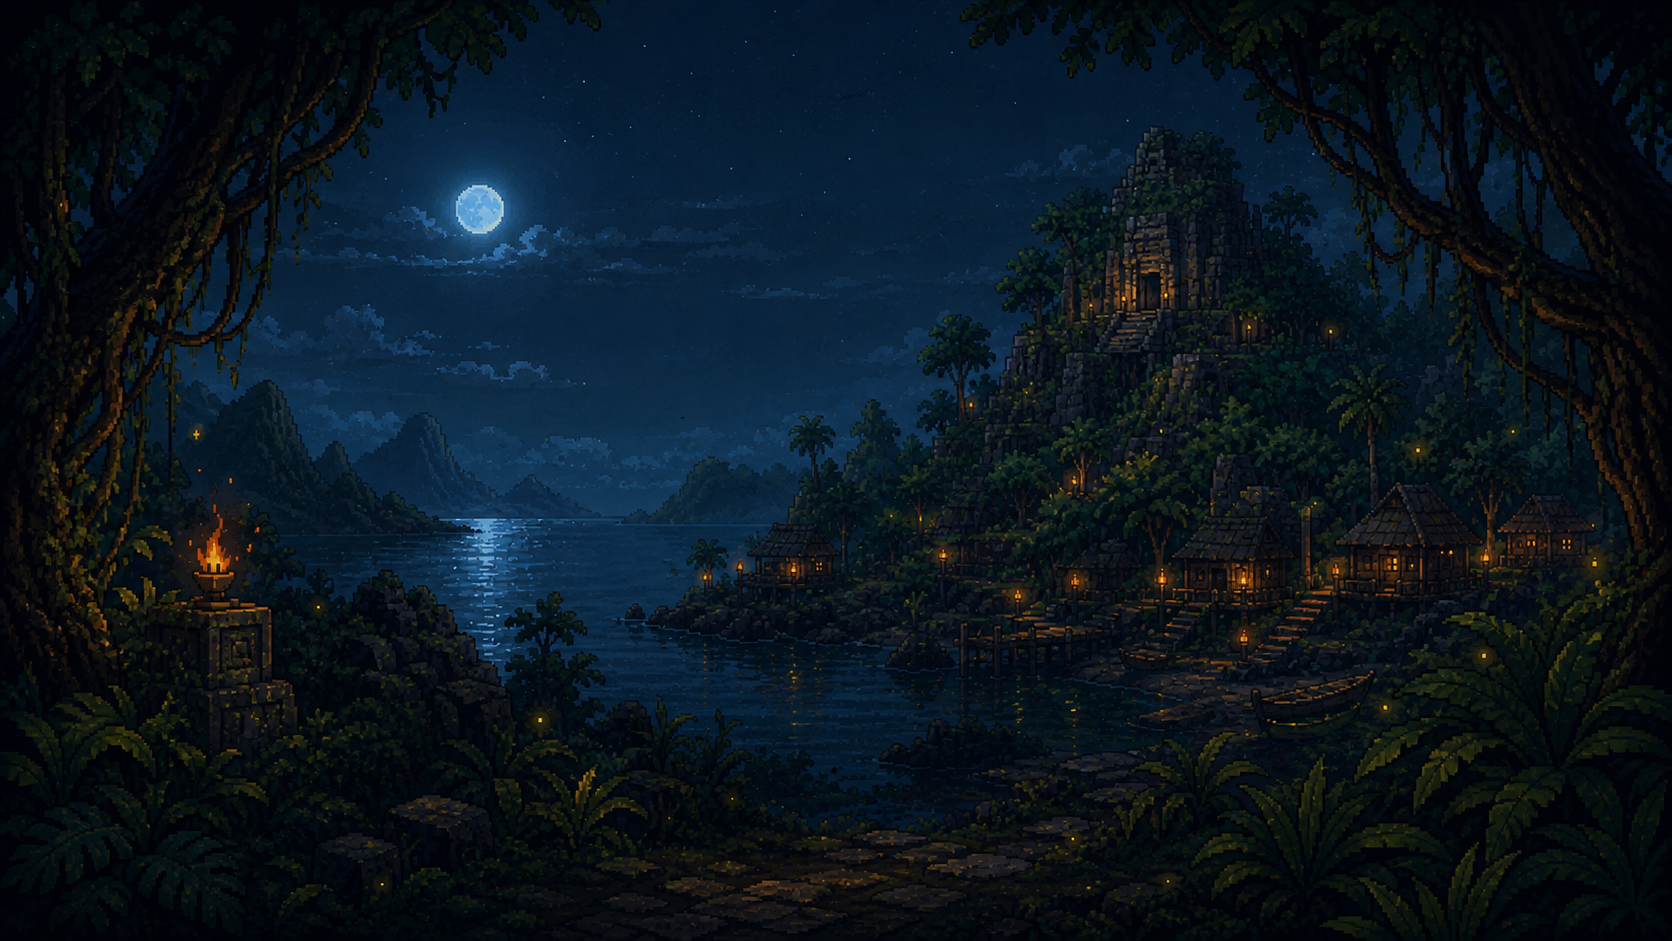
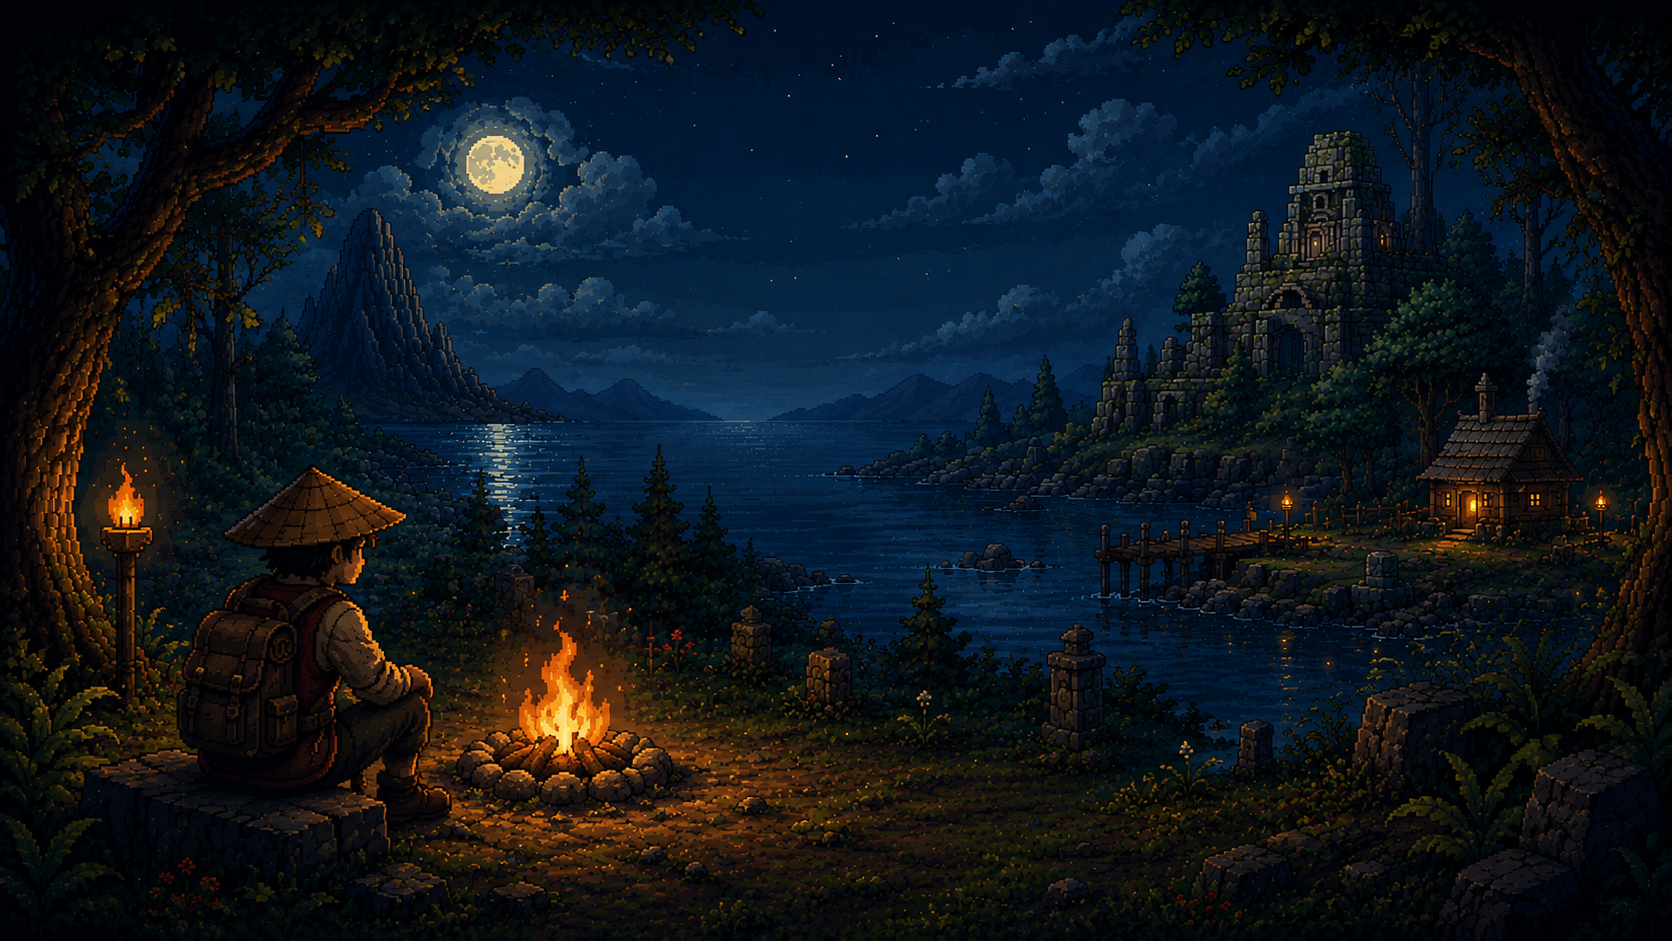
Enhance tutorial loading experience with new tips and loading screen integration

diff --git a/src/screens/tutorial.py b/src/screens/tutorial.py
@@ -14,10 +14,22 @@ from src.screens.how_to_play import (
     STONE_LIGHT,
 )
 from src.ui.theme import body_font, title_font
+from src.screens.loading import StageLoadingScreen
 
 
-def tutorial_screen(screen, play_music=True):
+def tutorial_screen(screen, play_music=True, show_loading=False):
     SCREEN_WIDTH, SCREEN_HEIGHT = screen.get_size()
+
+    loading = None
+    if show_loading:
+        loading = StageLoadingScreen(
+            screen,
+            stage_id="tutorial",
+            stage_name="Training Grounds",
+            stage_label="Tutorial",
+            previous_frame=screen,
+        )
+        loading.update(8, "Preparing your first lesson...")
 
     # --- Palette (stone/gold theme, matches main menu & game UI) ---
     STONE_MID = (42, 46, 58)
@@ -40,6 +52,8 @@ def tutorial_screen(screen, play_music=True):
     manual_note_font = body_font(15)
     manual_btn_font = title_font(22)
     exit_title_font = title_font(26)
+    if loading:
+        loading.update(24, "Preparing tutorial instructions...")
 
     # Rows of dialogue the textbox reserves room for. Every tutorial line
     # fits well inside this at the current width; the cap only exists so an
@@ -52,6 +66,8 @@ def tutorial_screen(screen, play_music=True):
         pygame.mixer.music.load("assets/audios/tutorial_background_music.mp3")
         apply_music_volume()
         pygame.mixer.music.play(-1)
+    if loading:
+        loading.update(38, "Loading Mang Tahimik...")
 
     def _stop_tutorial_music():
         pygame.mixer.music.stop()
@@ -63,6 +79,8 @@ def tutorial_screen(screen, play_music=True):
         portrait = pygame.image.load("assets/images/characters/mang_tahimik/portrait.png").convert_alpha()
     except Exception:
         portrait = None
+    if loading:
+        loading.update(52, "Preparing the training room...")
 
     # The textbox sizes itself from its fonts, so the portrait is scaled to
     # whatever square it ends up asking for rather than to a fixed size here.
@@ -230,6 +248,8 @@ def tutorial_screen(screen, play_music=True):
     camera_x, camera_y = 0, 0
 
     main_character = MainCharacter(screen, SCREEN_WIDTH, SCREEN_HEIGHT)
+    if loading:
+        loading.update(72, "Equipping your explorer...")
     player_size = 40
     player_rect = pygame.Rect(
         SCREEN_WIDTH // 2 - player_size // 2,
@@ -248,6 +268,8 @@ def tutorial_screen(screen, play_music=True):
         world_y=SCREEN_HEIGHT // 2,
         enemy_id="tiyanak_sinta",
     )
+    if loading:
+        loading.update(88, "Summoning the training creature...")
     player_combat = PlayerCombat()
     combat_audio = CombatAudio()
     attack_has_hit = False
@@ -326,6 +348,8 @@ def tutorial_screen(screen, play_music=True):
         state = "stage_manual"
 
     dialogue = DialogueBox(intro_lines, on_finish=finish_intro)
+    if loading:
+        loading.update(96, "Opening the training grounds...")
 
     # --- Stage manual layout (reuses the How To Play content so the
     # two stay in sync) ---
@@ -403,6 +427,9 @@ def tutorial_screen(screen, play_music=True):
 
         hint = hint_font.render("Press SPACE or click BEGIN ADVENTURE", True, DIM_TEXT)
         surf.blit(hint, (manual_panel_rect.centerx - hint.get_width() // 2, manual_begin_rect.bottom + 10))
+
+    if loading:
+        loading.finish()
 
     clock = pygame.time.Clock()
     running = True

diff --git a/tests/test_loading_screen.py b/tests/test_loading_screen.py
@@ -1,7 +1,9 @@
 """Regression tests for the reusable stage-loading presentation."""
 
 import os
+from pathlib import Path
 import unittest
+from unittest.mock import patch
 
 os.environ.setdefault("SDL_VIDEODRIVER", "dummy")
 os.environ.setdefault("SDL_AUDIODRIVER", "dummy")
@@ -9,7 +11,7 @@ os.environ.setdefault("SDL_AUDIODRIVER", "dummy")
 import pygame
 
 from src.screens.loading import (
-    BEGINNER_TIPS, StageLoadingScreen, loading_layout,
+    BEGINNER_TIPS, STAGE_TIPS, StageLoadingScreen, loading_layout,
 )
 
 
@@ -41,6 +43,35 @@ class LoadingScreenTests(unittest.TestCase):
             self.assertTrue(tip["text"])
             self.assertTrue(tip["code"])
             self.assertLessEqual(len(tip["text"]), 80)
+
+        self.assertTrue(any("input(" in tip["code"] for tip in BEGINNER_TIPS))
+
+    def test_tutorial_has_beginner_specific_loading_tips(self):
+        tutorial_tips = STAGE_TIPS["tutorial"]
+        self.assertGreaterEqual(len(tutorial_tips), 4)
+        self.assertTrue(any("RUN" in tip["code"] for tip in tutorial_tips))
+
+    def test_reported_progress_never_moves_backwards(self):
+        screen = pygame.display.set_mode((1280, 720))
+        background = pygame.Surface(screen.get_size())
+        with patch.object(StageLoadingScreen, "_fade_from_previous"):
+            loading = StageLoadingScreen(
+                screen,
+                stage_id="tutorial",
+                background=background,
+                previous_frame=background,
+                seed=1,
+            )
+        loading.update(65, "Loading characters...")
+        loading.update(20, "Older update")
+        self.assertEqual(loading.progress, 65)
+
+    def test_new_game_requests_the_tutorial_loading_transition(self):
+        root = Path(__file__).resolve().parents[1]
+        source = (root / "src" / "screens" / "start_game_menu.py").read_text(
+            encoding="utf-8"
+        )
+        self.assertIn("tutorial_screen(screen, show_loading=True)", source)
 
 
 if __name__ == "__main__":

diff --git a/src/screens/loading.py b/src/screens/loading.py
@@ -9,6 +9,7 @@ import sys
 import pygame
 
 from src.ui.theme import UI_COLORS, body_font, title_font
+from src.systems.audio import handle_music_shortcut
 
 
 REFERENCE_SIZE = (1920, 1080)
@@ -16,12 +17,13 @@ MIN_VISIBLE_MS = 280
 
 STAGE_BACKGROUNDS = {
     "island": "assets/images/backgrounds/loading_island_stage1.png",
+    "tutorial": "assets/images/backgrounds/loading_island_stage1.png",
 }
 
 BEGINNER_TIPS = (
     {"text": "print() displays information on the screen.",
      "code": 'print("Hello, explorer!")'},
-    {"text": "input() lets your program receive user input.",
+    {"text": "input() receives test values supplied by the current challenge.",
      "code": 'name = input("Name: ")'},
     {"text": "Variables store values that can be reused later.",
      "code": "player_hp = 100"},
@@ -43,6 +45,16 @@ BEGINNER_TIPS = (
 
 STAGE_TIPS = {
     "island": BEGINNER_TIPS,
+    "tutorial": (
+        {"text": "Use W, A, S, D or the arrow keys to move.",
+         "code": "W  A  S  D"},
+        {"text": "Press E to attack or interact with something nearby.",
+         "code": "E = action"},
+        {"text": "Run your code first, then Submit it when ready.",
+         "code": "TYPE  >  RUN  >  SUBMIT"},
+        {"text": "Wrong code costs nothing. Read the feedback and try again.",
+         "code": "Mistakes help you learn."},
+    ),
 }
 
 _BACKGROUND_CACHE = {}
@@ -205,6 +217,7 @@ class StageLoadingScreen:
             if event.type == pygame.QUIT:
                 pygame.quit()
                 sys.exit()
+            handle_music_shortcut(event)
 
     def _fade_from_previous(self):
         clock = pygame.time.Clock()

diff --git a/tests/test_learning_challenges.py b/tests/test_learning_challenges.py
@@ -15,6 +15,10 @@ VALID_SOLUTIONS = {
         'age = 18\nheight = 1.75\nname = "Alex"\nis_ready = True'
     ),
     "type_casting_001": 'age_text = "18"\nage = int(age_text)',
+    "input_lesson_001": 'name = input("Enter your name: ")',
+    "formatted_output_001": (
+        'name = "Alex"\nprint(f"Welcome, {name}!")'
+    ),
 }
 
 
@@ -26,7 +30,9 @@ class LearningChallengeTests(unittest.TestCase):
         for challenge_id, challenge in CHALLENGES.items():
             with self.subTest(challenge=challenge_id):
                 code = VALID_SOLUTIONS[challenge_id]
-                execution = run_user_code(code)
+                execution = run_user_code(
+                    code, input_values=challenge.get("test_inputs", [])
+                )
                 self.assertTrue(execution["success"], execution.get("error"))
 
                 passed, feedback = manager.validate(challenge, code)
@@ -41,6 +47,10 @@ class LearningChallengeTests(unittest.TestCase):
             "python_syntax_basics_001": 'print("Wrong")',
             "data_types_001": 'age = "18"',
             "type_casting_001": 'age_text = "18"\nage = age_text',
+            "input_lesson_001": 'name = "Alex"',
+            "formatted_output_001": (
+                'name = "Alex"\nprint("Welcome, Alex!")'
+            ),
         }
 
         for challenge_id, code in invalid_solutions.items():

diff --git a/tests/test_tutorial_regressions.py b/tests/test_tutorial_regressions.py
@@ -82,7 +82,9 @@ class TutorialRegressionTests(unittest.TestCase):
         with tempfile.TemporaryDirectory() as temp_dir:
             try:
                 save_manager.SAVE_DIR = temp_dir
-                start_menu.tutorial_screen = lambda _screen: "cancelled"
+                start_menu.tutorial_screen = (
+                    lambda _screen, **_kwargs: "cancelled"
+                )
                 start_menu.game_screen = lambda *_args, **_kwargs: game_calls.append(True)
 
                 width, height = self.screen.get_size()

diff --git a/src/screens/start_game_menu.py b/src/screens/start_game_menu.py
@@ -173,7 +173,7 @@ def start_game_menu(screen, clean_backdrop=None):
 
     def _run_new(slot_num, state):
         pygame.mixer.music.stop()
-        tutorial_result = tutorial_screen(screen)
+        tutorial_result = tutorial_screen(screen, show_loading=True)
         if tutorial_result != "completed":
             # Do not create an unfinished save or overwrite an existing one
             # when the player returns from the tutorial. This also prevents
